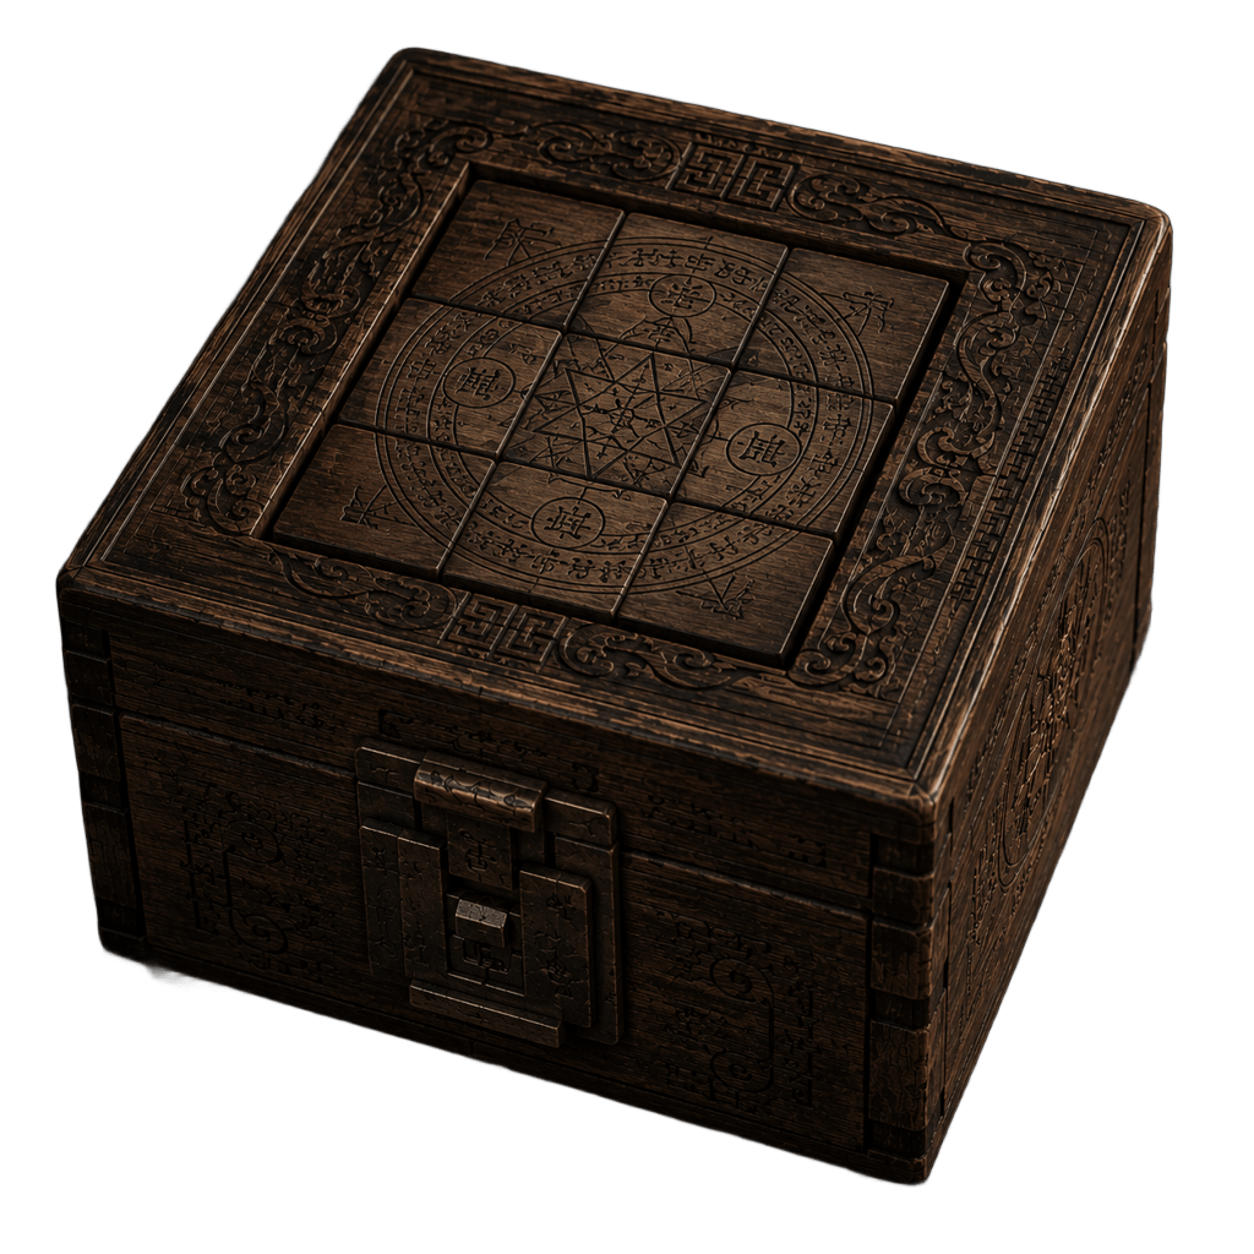
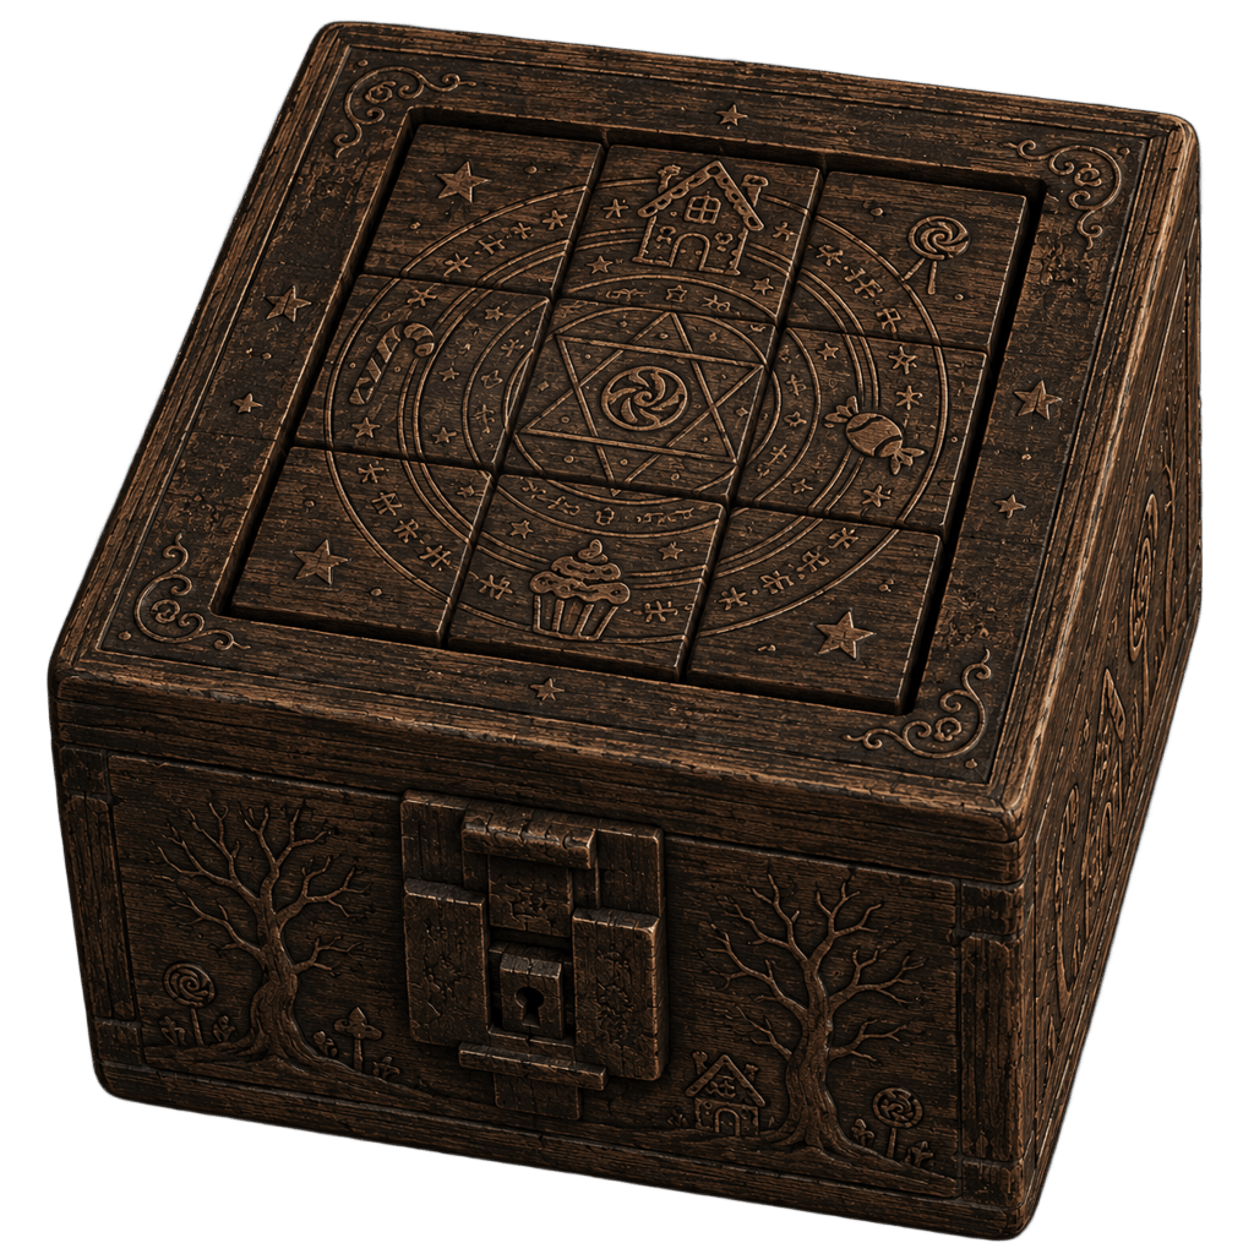
feat:大改

diff --git a/app/explore/center-wall/page.tsx b/app/explore/center-wall/page.tsx
@@ -14,7 +14,7 @@ export default function ExploreCenterWall() {
   return (
     <div className="w-full h-screen relative overflow-hidden bg-black">
       <Img
-        src="/images/explore_middle.png"
+        src="/images/explore_middle1.png"
         alt="background"
         width={1920}
         height={1080}

diff --git a/app/explore/left-wall/page.tsx b/app/explore/left-wall/page.tsx
@@ -12,7 +12,7 @@ export default function ExploreLeftWall() {
     <div className="w-full h-screen relative overflow-hidden bg-black">
       {/* Background */}
       <Img
-        src="/images/explore_left.png"
+        src="/images/explore_left0.png"
         alt="left_wall"
         width={1920}
         height={1080}